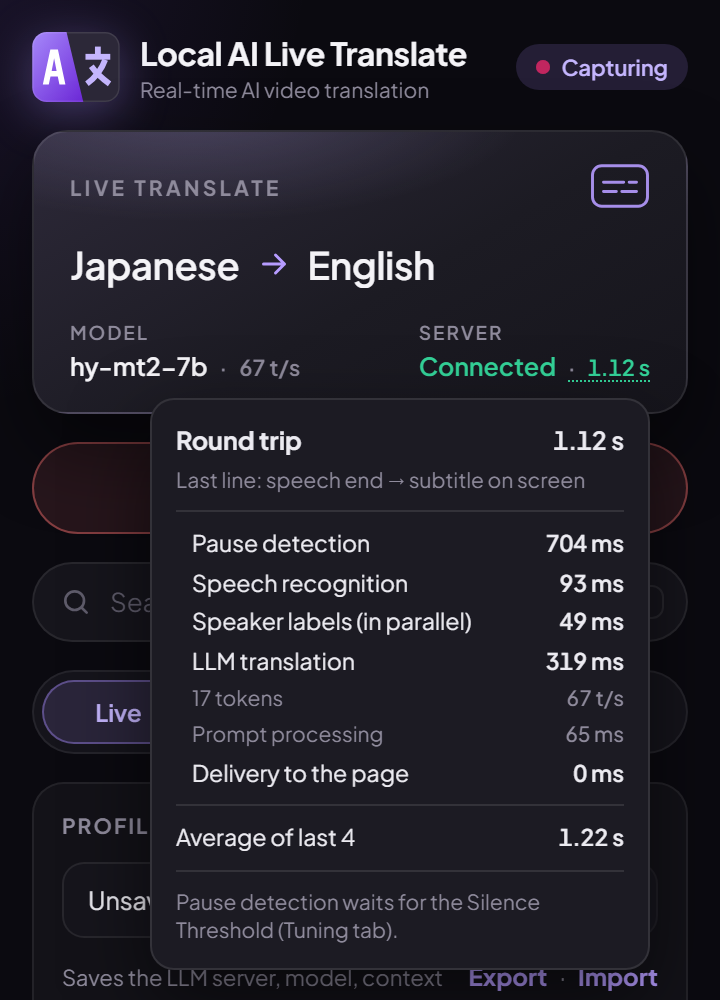
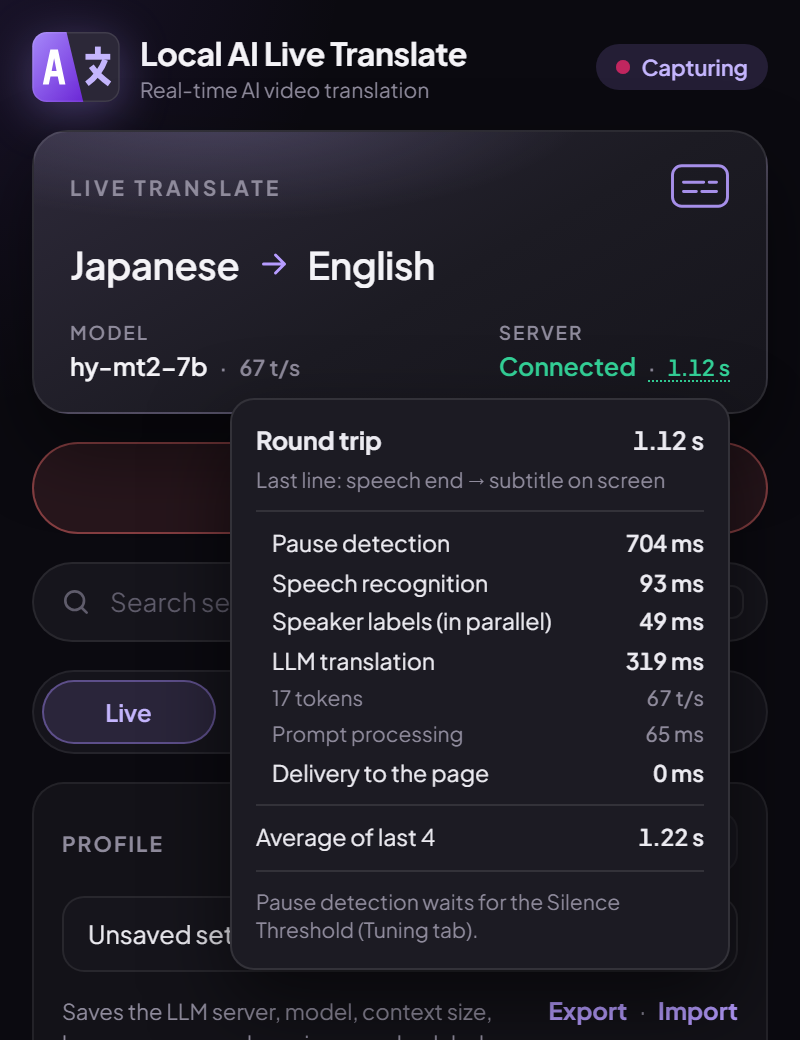
Retake the README screenshots for the current popup
The popup is 400 px wide now (was 360) with the Option B layout, the
display config saves the theme, and the server logs the prompt template.
Same demo data as before; the console is a fresh run with Hy-MT2-7B.

diff --git a/README.md b/README.md
@@ -45,7 +45,7 @@ appearing on the page:
 The server window logs each line as it's recognised (with the language and speaker) and translated
 (with the model's time and speed):
 
-<img src="docs/images/server-console.png" alt="Server console: SenseVoice recognising Japanese, Korean and Chinese speech from three speakers, and Hy-MT2-7B translating each line into English in 0.3 to 0.6 s at 65 t/s">
+<img src="docs/images/server-console.png" alt="Server console: SenseVoice recognising Japanese, Korean and Chinese speech from three speakers, and Hy-MT2-7B translating each line into English in 0.4 to 0.7 s at 63 to 65 t/s">
 
 The numbers in these screenshots come from a real run on an RX 9070 XT, using the SenseVoice test clips.
 
